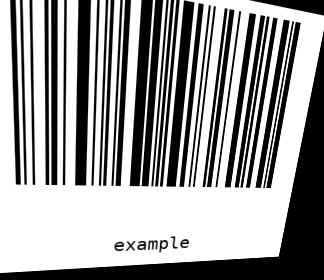
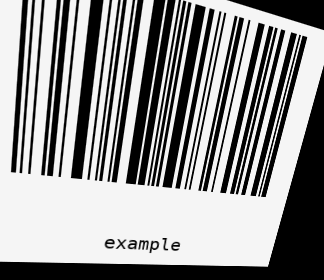
+ change brightness

diff --git a/main.py b/main.py
@@ -26,7 +26,7 @@ def rotate3DImage(input, alpha, beta, gamma, dx, dy, dz, f):
     |
     |z(pointing inwards)--------->x
 
-    :param input: image
+    :param input: image to rotate
     :param alpha: rotation angle around x-axis
     :param beta: rotation angle around y-axis
     :param gamma: rotation angle around z-axis
@@ -61,6 +61,31 @@ def rotate3DImage(input, alpha, beta, gamma, dx, dy, dz, f):
     tmp2 = np.dot(T, tmp1)
     trans = np.dot(A2, tmp2)
     dst = cv2.warpPerspective(img, trans, (cols, rows), cv2.INTER_LANCZOS4)
+    return dst
+
+
+def change_brightness(img, value):
+    """
+    :param img: image to change brightness
+    :param value: value to change brightness, if not within [-255, 255] then will be changed to fit into interval
+    :return: image with changed brightness
+    """
+    hsv = cv2.cvtColor(img, cv2.COLOR_BGR2HSV)
+    if value >= 0:
+        # increase brightness
+        h, s, v = cv2.split(hsv)
+        lim = 255 - value
+        v[v > lim] = 255
+        v[v <= lim] += value
+        final_hsv = cv2.merge((h, s, v))
+        dst = cv2.cvtColor(final_hsv, cv2.COLOR_HSV2BGR)
+    elif value < 0:
+        # decrease brightness
+        if value < -255:
+            value = -255
+        factor = (255 + value)/255
+        hsv[..., 2] = hsv[..., 2] * factor
+        dst = cv2.cvtColor(hsv, cv2.COLOR_HSV2BGR)
     return dst
 
 
@@ -147,9 +172,12 @@ if __name__ == '__main__':
     coords = [np.random.randint(0, i - 1, int(num_pepper)) for i in img.shape]
     out[coords] = 0
 
-    #out = rotate_image(out, -5)
-    out = rotate3DImage(out, 10, 10, 5, 0, 0, 200, 200)
+    # out = rotate_image(out, -5)
+    out = rotate3DImage(out, 10, 10, 10, 0, 0, 200, 200)
+
     # contrast
 
     # brightness
+    out = change_brightness(out, -10)
+
     cv2.imwrite('./output/example.png', out)
